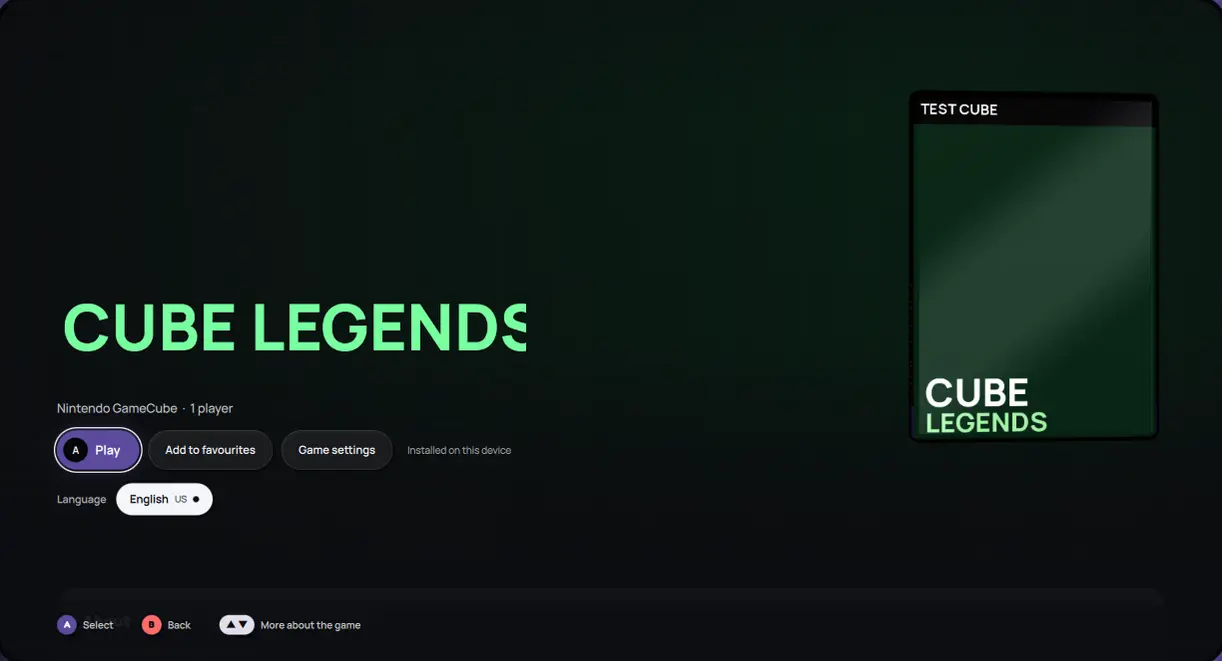
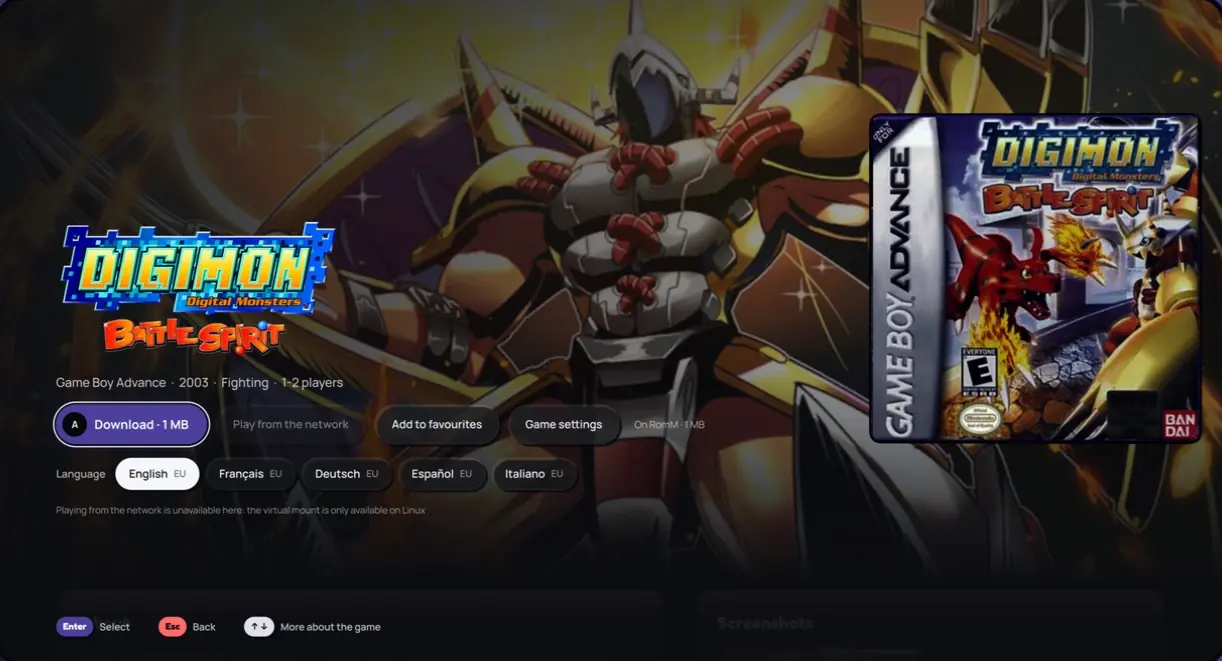
Website: real captures of the library and a game page
The Library and Game screens are now captures of the app with a real collection (covers, art and
gameplay video from ScreenScraper) instead of the test library; the library opens the showcase.

Claude-Session: https://claude.ai/code/session_01F1ihM3CPQvXhR83BGSUrZD

diff --git a/website/index.html b/website/index.html
@@ -43,17 +43,18 @@
 
     <figure class="showcase">
       <div class="pills" role="group" aria-label="Choose a screen">
-        <button type="button" aria-pressed="true" data-src="assets/shots/profiles.webp" data-alt="Who's playing? The profile screen, with the Borne logo">Profiles</button>
-        <button type="button" aria-pressed="false" data-src="assets/shots/library.webp" data-alt="The library: games shown as 3D cases on a shelf, with a tab for each console">Library</button>
+        <button type="button" aria-pressed="true" data-src="assets/shots/library.webp" data-alt="The library: Game Boy games as 3D cases on a shelf, the selected game's video behind them">Library</button>
+        <button type="button" aria-pressed="false" data-src="assets/shots/game.webp" data-alt="A game page: download or play, favourites, game settings and the languages the game exists in">Game</button>
+        <button type="button" aria-pressed="false" data-src="assets/shots/profiles.webp" data-alt="Who's playing? The profile screen, with the Borne logo">Profiles</button>
         <button type="button" aria-pressed="false" data-src="assets/shots/game-settings.webp" data-alt="A game's own settings: its emulator and the emulator's options for this game only">Game settings</button>
         <button type="button" aria-pressed="false" data-src="assets/shots/game-picture.webp" data-alt="A game's picture settings: shape, rendering resolution, pixels, scaling">Picture</button>
         <button type="button" aria-pressed="false" data-src="assets/shots/settings-emulators.webp" data-alt="Settings: the emulator used for each console">Emulators</button>
         <button type="button" aria-pressed="false" data-src="assets/shots/settings-interface.webp" data-alt="Settings: videos behind the library, interface size, animations">Interface</button>
       </div>
       <div class="screen">
-        <img id="screen-img" src="assets/shots/profiles.webp" alt="Who's playing? The profile screen, with the Borne logo" width="1222" height="661">
+        <img id="screen-img" src="assets/shots/library.webp" alt="The library: Game Boy games as 3D cases on a shelf, the selected game's video behind them" width="1222" height="661">
       </div>
-      <figcaption>Borne on macOS. The library is shown with a test collection.</figcaption>
+      <figcaption>Borne on macOS. Covers, art and videos come from ScreenScraper.</figcaption>
     </figure>
   </section>
 

diff --git a/docs/DEVELOPMENT.md b/docs/DEVELOPMENT.md
@@ -112,8 +112,8 @@ translated by `ui/components/CoreText.js`.
   publishes a **stable** release instead.
 - **Website** (`.github/workflows/pages.yml`): publishes `website/` to GitHub Pages
   (https://lightmaster00.github.io/borne/) when it changes on `main`. The screenshots in
-  `website/assets/shots` come from the development RomM's synthetic library, in English, never
-  from real box art. Regenerate the icon PNG with `rsvg-convert -w 1024 -h 1024 resources/borne.svg
+  `website/assets/shots` are captures of the app on macOS, in English, cut to the screen inside
+  the console frame. Regenerate the icon PNG with `rsvg-convert -w 1024 -h 1024 resources/borne.svg
   -o resources/borne.png`.
 
 To publish a stable version: set `version` in `core/Cargo.toml` (the tag must match), commit, then
